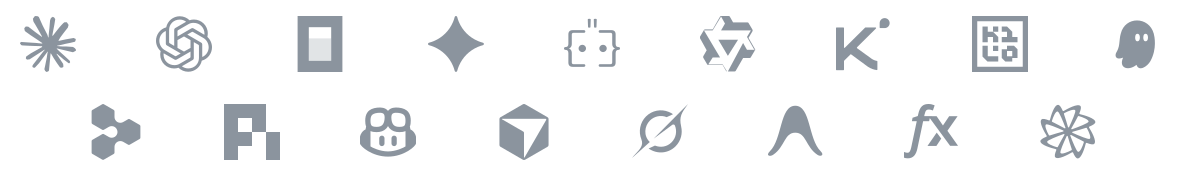
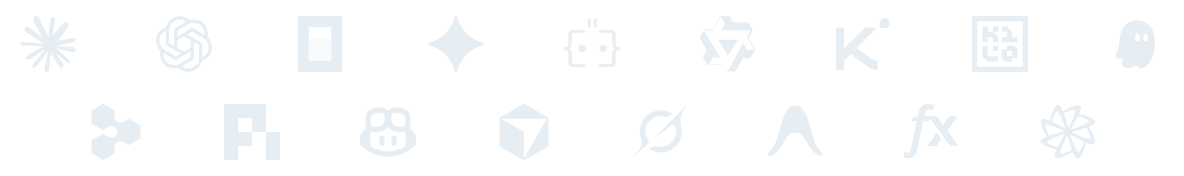
docs: expand remote setup and continuity guidance
Add SSH machine setup and pairing instructions, explain native-terminal session continuity and quota recovery, point the stable badge at the release channel, and increase generated agent-strip contrast for GitHub light and dark themes.

diff --git a/README.md b/README.md
@@ -24,7 +24,7 @@
     <a href="LICENCE"><img alt="License: MIT" src="https://img.shields.io/badge/license-MIT-blue" /></a>
     <a href="https://happier.dev/download"><img alt="Downloads" src="https://img.shields.io/endpoint?url=https%3A%2F%2Fstats.happier.dev%2Fdownloads-badge.json" /></a>
     <a href="https://discord.gg/W6Pb8KuHfg"><img alt="Discord" src="https://img.shields.io/endpoint?url=https%3A%2F%2Fstats.happier.dev%2Fdiscord-badge.json" /></a>
-    <a href="https://github.com/happier-dev/happier/releases"><img alt="Latest release" src="https://img.shields.io/github/v/release/happier-dev/happier" /></a>
+    <a href="https://docs.happier.dev/releases"><img alt="Latest stable release" src="https://img.shields.io/npm/v/%40happier-dev%2Fcli?label=stable&color=2ea043" /></a>
   </p>
 
   <a href="https://github.com/happier-dev/happier/discussions/226"><strong>Latest Happier project update</strong></a>
@@ -70,6 +70,25 @@ iwr https://happier.dev/install.ps1 -useb | iex
 ```
 
 If you specifically want the npm package instead: `npm install -g @happier-dev/cli` ([CLI docs](https://docs.happier.dev/apps/cli)).
+
+</details>
+
+<details>
+<summary><b>Installing on a remote computer or devbox?</b> Set it up over SSH, from your machine</summary>
+
+One command installs the CLI and the daemon on the remote host (release-signature verified) and registers it as one of your machines:
+
+```bash
+happier machine setup --ssh user@host
+```
+
+To sign the remote machine in without a browser on its side, run this from a machine where you are already signed in:
+
+```bash
+happier auth pair-remote --ssh user@host
+```
+
+Headless alternative on the remote host itself: `happier auth login --no-open --method web` prints an authorization URL you approve from any browser. [Machines and the daemon](https://docs.happier.dev/apps/daemon)
 
 </details>
 
@@ -124,6 +143,8 @@ Either way, the session shows up everywhere at once: keep typing in the terminal
 
 **Parallel sessions, on every machine you own.** Start as many sessions as you like and pick the machine, folder, agent and model for each one. Give a session its own Git worktree so parallel agents never collide, and add a new machine over SSH from the app or the CLI. [Starting a session](https://docs.happier.dev/sessions/new-session-shortcuts) · [Machines and the daemon](https://docs.happier.dev/apps/daemon)
 
+**Your terminal stays yours.** Keep running Claude Code, Codex or OpenCode in their native TUIs: Happier mirrors those sessions to every device, so you can follow along, send messages and approve from anywhere, then switch between the terminal and the app whenever you like. Sessions you started outside Happier show up too, live, with nothing to migrate. [Continuing a session](https://docs.happier.dev/sessions/continuing-a-session)
+
 **Subagents across agents.** Any session can launch review, plan or delegate runs on another agent and read the results: Claude handing work to Codex subagents, Codex to Claude, or any other pairing. [Subagents](https://docs.happier.dev/extending/subagents)
 
 **Switch agents mid-session.** Change the engine and the same session keeps going. A returning agent resumes its own thread and receives only what it missed. [Continue with another agent](https://docs.happier.dev/sessions/continue-with-another-agent)
@@ -152,7 +173,7 @@ Either way, the session shows up everywhere at once: keep typing in the terminal
 
 **MCP, in both directions.** Define your MCP servers once and use them with every agent on every machine. Happier is also an MCP server itself, so an external MCP host can spawn and drive your sessions. [MCP servers](https://docs.happier.dev/extending/mcp-servers) · [Happier as an MCP server](https://docs.happier.dev/extending/happier-as-mcp-server)
 
-**Your accounts, with usage in view.** Link provider subscriptions and API keys once, reuse them across your machines, and monitor usage and quota where the provider exposes them. [Connected services](https://docs.happier.dev/accounts/connected-services)
+**A usage limit should not end your session.** Link provider subscriptions and API keys once, sealed on your device before they sync, and pick which account each session runs under. When a provider limit bites, Happier shows the reset time, waits, and resumes the session on its own (Claude Code, Codex, OpenCode, Gemini, Pi). [Connected services](https://docs.happier.dev/accounts/connected-services) · [Usage limits](https://happier.dev/features/usage-limits)
 
 **Self-host, same features.** The self-hosted relay runs the same apps, the same encryption and the same features as the hosted one. [Self-hosting](https://docs.happier.dev/self-hosting)
 
